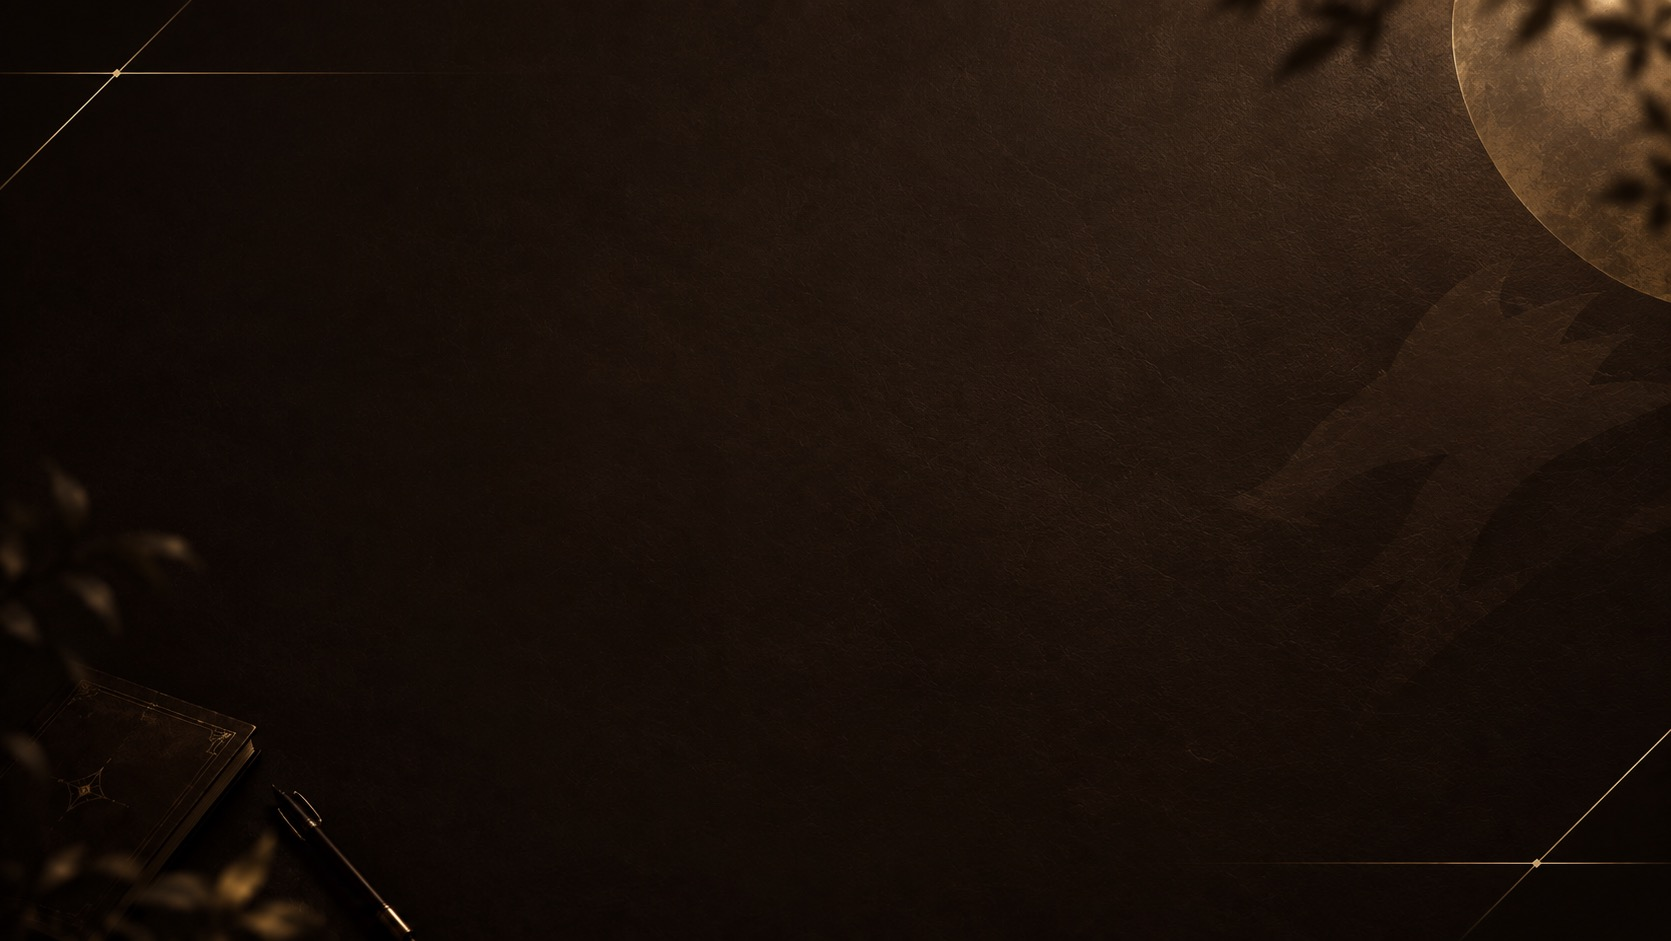
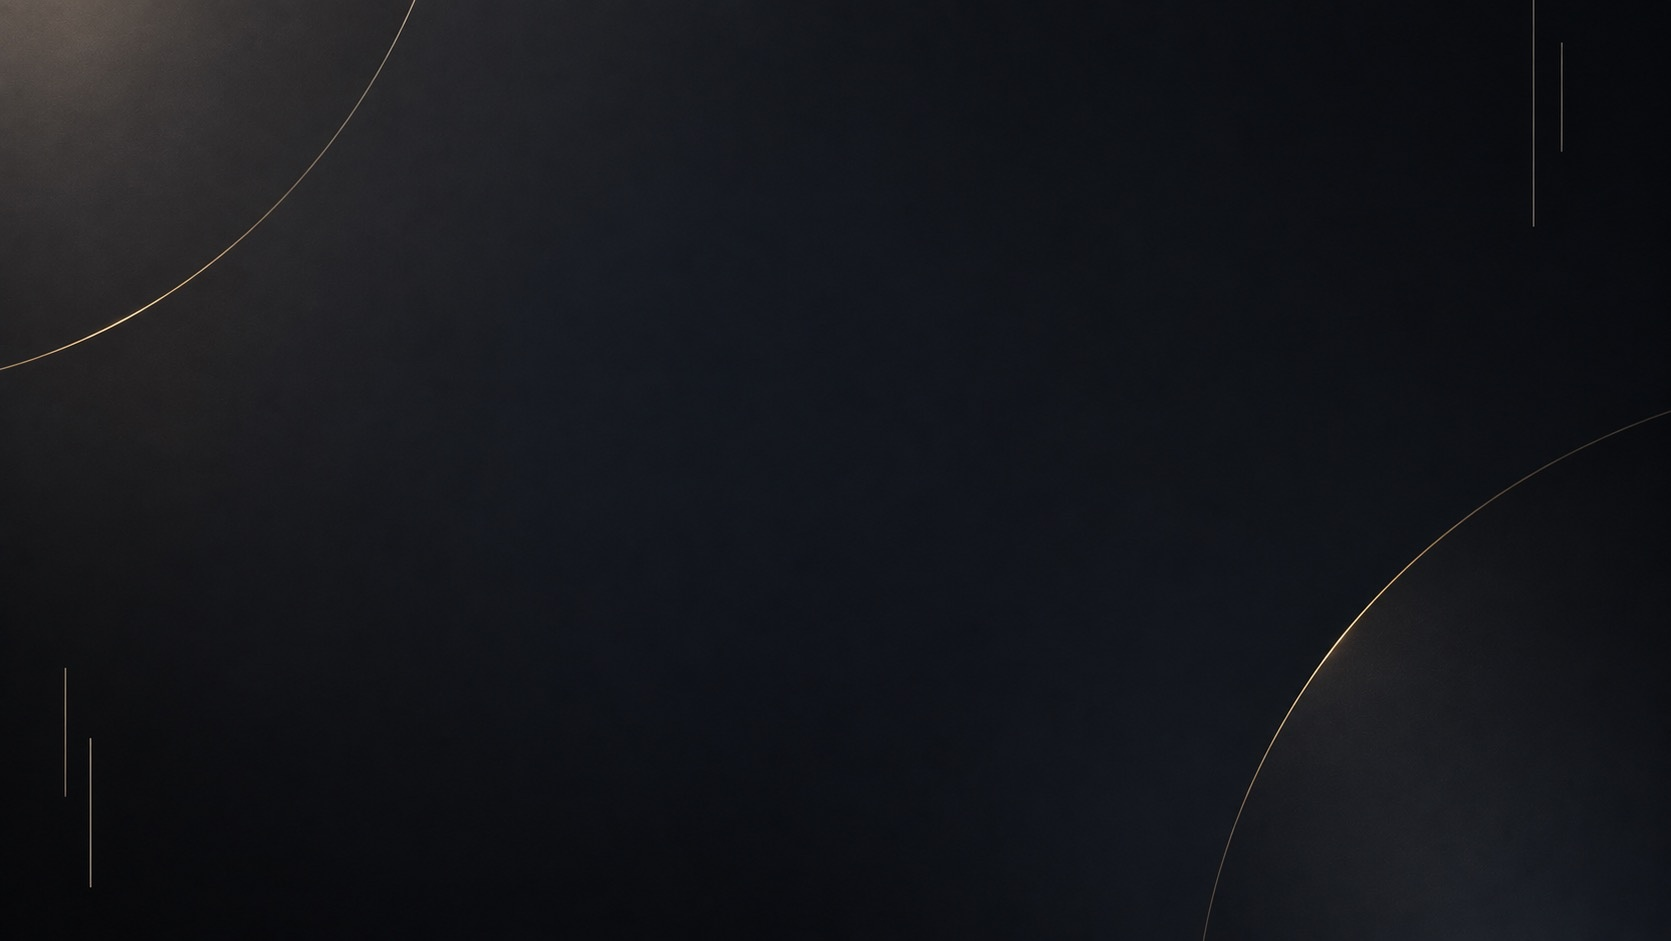
Update app database setup and navy design

diff --git a/static/style.css b/static/style.css
@@ -12,12 +12,11 @@ body {
     font-family: -apple-system, BlinkMacSystemFont, "Helvetica Neue", "Hiragino Kaku Gothic ProN", sans-serif;
     color: #fff;
     background:
-        linear-gradient(rgba(24, 15, 10, 0.58), rgba(24, 15, 10, 0.58)),
         url("/static/site-background.jpg") center center / cover fixed no-repeat;
 }
 
 header {
-    background: rgba(30, 18, 12, 0.90);
+    background: rgba(8, 15, 28, 0.88);
     color: #fff;
     border-bottom: 1px solid rgba(216, 183, 106, 0.65);
     backdrop-filter: blur(8px);
@@ -71,7 +70,7 @@ p {
 }
 
 .event-card {
-    background: rgba(48, 26, 16, 0.86);
+    background: rgba(10, 20, 38, 0.86);
     border: 1px solid rgba(216, 183, 106, 0.48);
     border-radius: 10px;
     overflow: hidden;
@@ -121,7 +120,7 @@ p {
     border-radius: 7px;
     padding: 11px 18px;
     background: linear-gradient(135deg, #e2c77f, #b88b3d);
-    color: #2d1a0f;
+    color: #0d1118;
     text-decoration: none;
     cursor: pointer;
     font-weight: bold;
@@ -149,7 +148,7 @@ p {
 }
 
 .event-detail {
-    background: rgba(48, 26, 16, 0.86);
+    background: rgba(10, 20, 38, 0.86);
     padding: 25px;
     border-radius: 10px;
     border: 1px solid rgba(216, 183, 106, 0.48);
@@ -168,7 +167,7 @@ p {
 }
 
 .form {
-    background: rgba(48, 26, 16, 0.86);
+    background: rgba(10, 20, 38, 0.86);
     padding: 25px;
     border-radius: 10px;
     border: 1px solid rgba(216, 183, 106, 0.48);
@@ -194,7 +193,7 @@ select {
     border-radius: 6px;
     font: inherit;
     color: #fff;
-    background: rgba(25, 16, 11, 0.78);
+    background: rgba(7, 14, 26, 0.82);
 }
 
 input::placeholder,
@@ -239,7 +238,7 @@ legend {
 
 table {
     width: 100%;
-    background: rgba(48, 26, 16, 0.86);
+    background: rgba(10, 20, 38, 0.86);
     border-collapse: collapse;
     border: 1px solid rgba(216, 183, 106, 0.45);
     box-shadow: 0 8px 28px rgba(0, 0, 0, 0.24);
@@ -247,7 +246,7 @@ table {
 
 th {
     color: #f5e8c2;
-    background: rgba(80, 48, 27, 0.82);
+    background: rgba(18, 34, 58, 0.88);
 }
 
 th,
@@ -490,7 +489,7 @@ a:hover {
     display: flex;
     align-items: center;
     justify-content: center;
-    background: rgba(40, 25, 18, 0.7);
+    background: rgba(10, 20, 36, 0.72);
     border: 1px solid rgba(212, 175, 55, 0.5);
 }
 

diff --git a/app.py b/app.py
@@ -91,6 +91,10 @@ def init_db():
         conn.execute("ALTER TABLE events ADD COLUMN stock_circle_threshold INTEGER NOT NULL DEFAULT 10")
     if "stock_circle_enabled" not in columns:
         conn.execute("ALTER TABLE events ADD COLUMN stock_circle_enabled INTEGER NOT NULL DEFAULT 1")
+    if "venue_address" not in columns:
+        conn.execute("ALTER TABLE events ADD COLUMN venue_address TEXT")
+    if "admin_email_recipients" not in columns:
+        conn.execute("ALTER TABLE events ADD COLUMN admin_email_recipients TEXT DEFAULT ''")
 
     conn.execute("""
         CREATE TABLE IF NOT EXISTS applications (
@@ -120,6 +124,12 @@ def init_db():
             created_at TEXT NOT NULL DEFAULT CURRENT_TIMESTAMP
         )
     """)
+    gm_columns = {row[1] for row in conn.execute("PRAGMA table_info(gm_requests)").fetchall()}
+    if "inquiry_type" not in gm_columns:
+        conn.execute("ALTER TABLE gm_requests ADD COLUMN inquiry_type TEXT NOT NULL DEFAULT 'GM依頼'")
+    if "preferred_place_type" not in gm_columns:
+        conn.execute("ALTER TABLE gm_requests ADD COLUMN preferred_place_type TEXT NOT NULL DEFAULT ''")
+
     conn.execute("""
         CREATE TABLE IF NOT EXISTS profile (
             id INTEGER PRIMARY KEY CHECK (id = 1),
@@ -1821,6 +1831,7 @@ def run_lottery(event_id):
     return redirect(url_for("event_applications", event_id=event_id))
 
 
+init_db()
+
 if __name__ == "__main__":
-    init_db()
     app.run(debug=False, port=5001)
